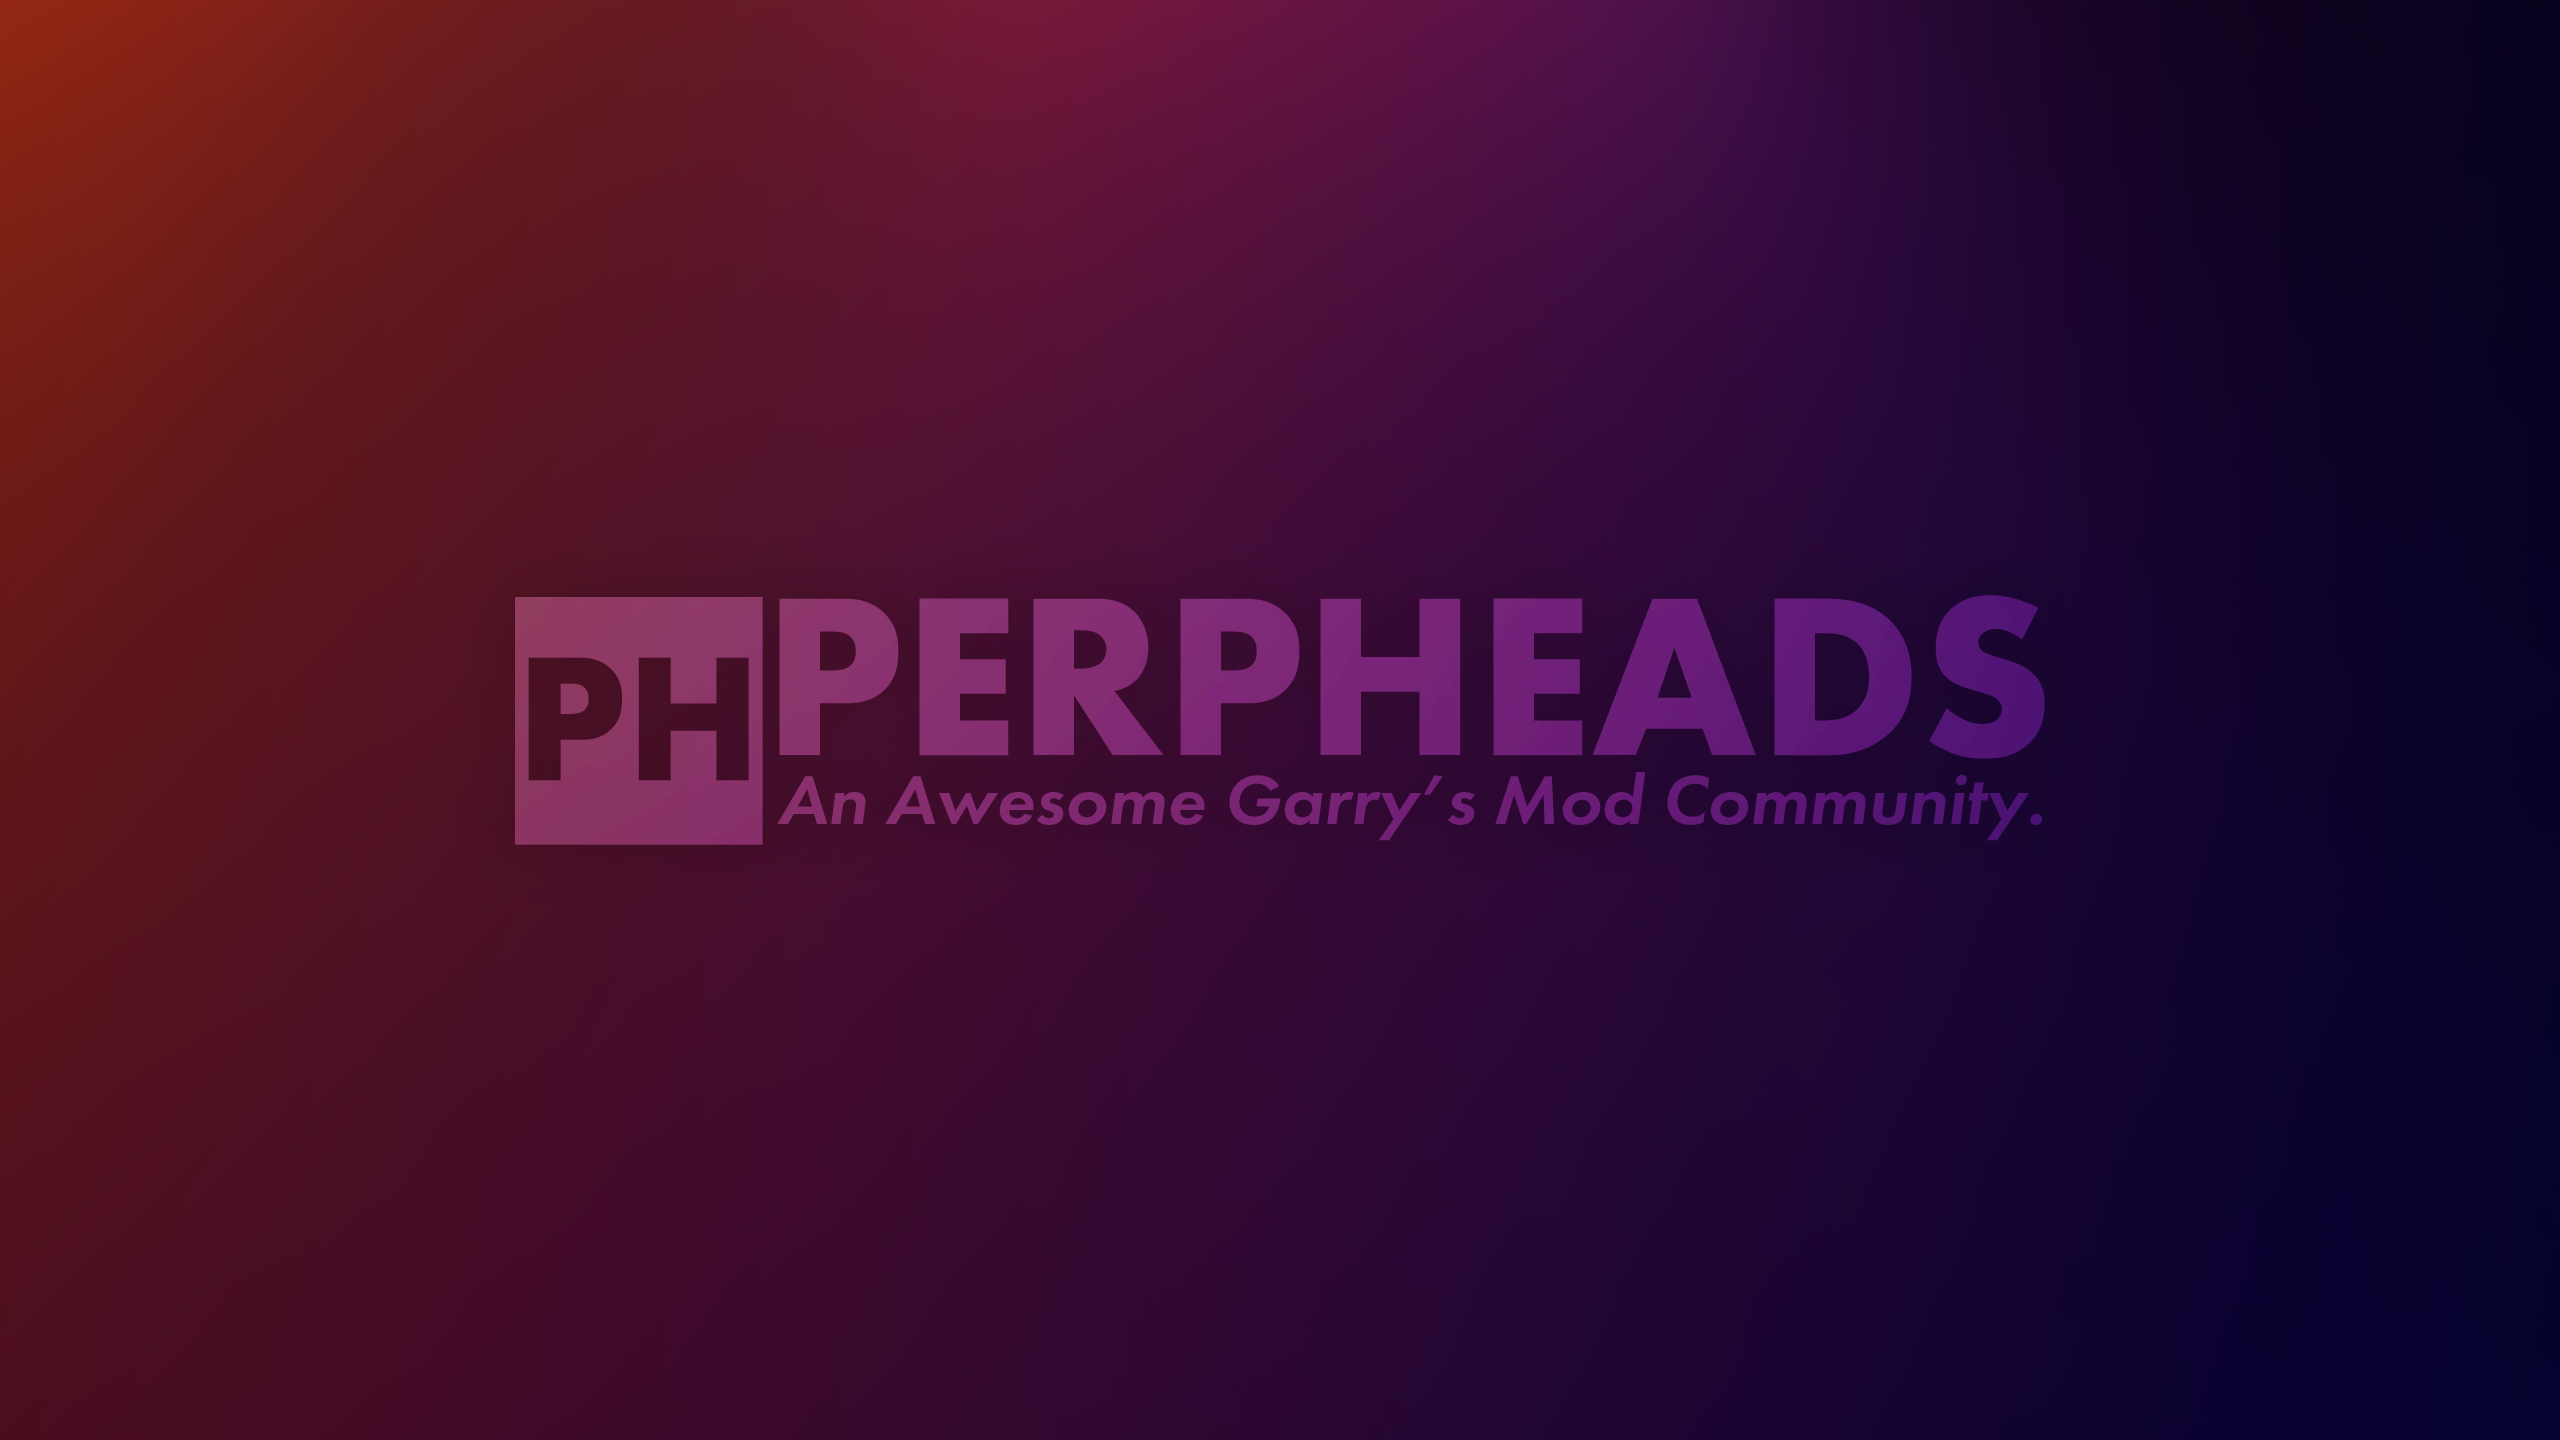
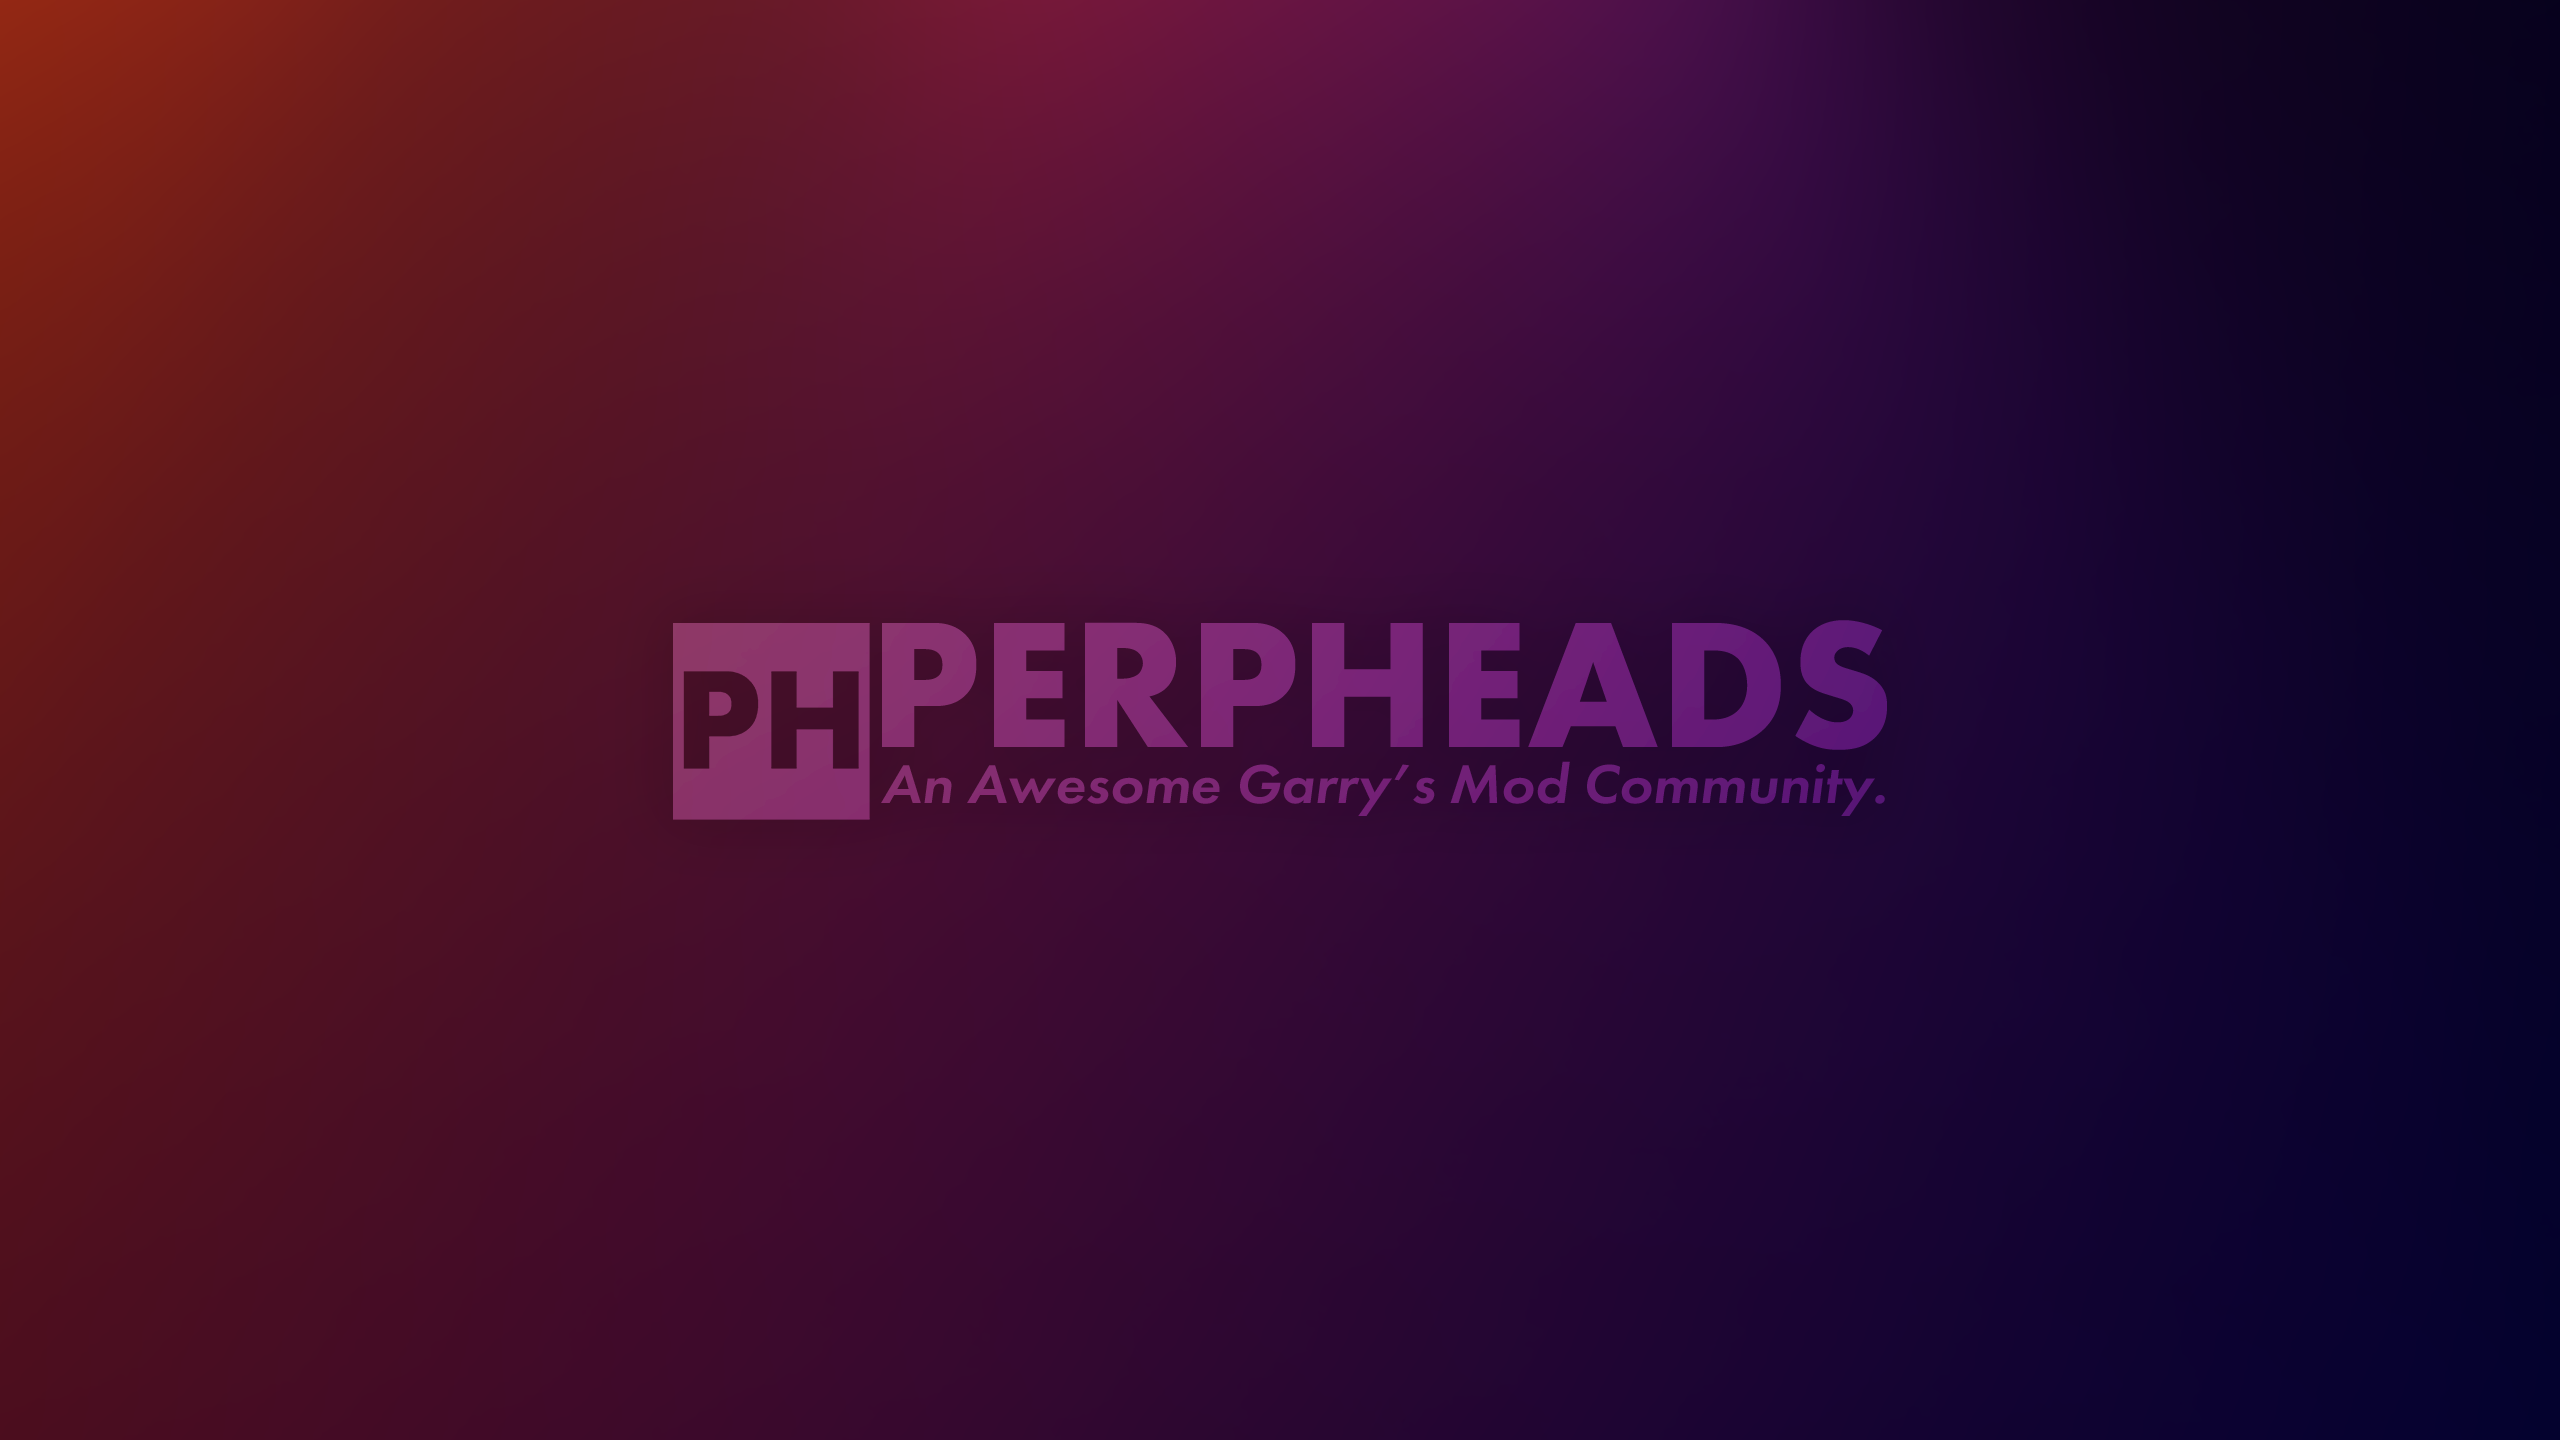
Revert to simple loading screen

Changed region(s): [[0.1875, 0.4062, 0.8125, 0.5938]]

diff --git a/loading.html b/loading.html
@@ -13,7 +13,7 @@
       overflow: hidden;
       font-family: 'Jost', sans-serif;
       font-weight: bold 700;
-      background: black;
+      background: rgb(42, 42, 42);
     }
 
     .background-wrapper {
@@ -58,60 +58,24 @@
     }
 
     .hue-animation {
-      animation: hueRotate 60s linear infinite;
+      animation: hueRotate 30s linear infinite;
     }
-
-    .namebox {
-    opacity: 0.64;
-    position: fixed;
-    bottom: 0px;
-    left: 30px;
-    width: 324px;
-    height: 160px;
-    background: url('images_excluded/loading/namebox.png') no-repeat center center;
-    background-size: contain;
-    display: flex;
-    align-items: flex-end;
-    justify-content: flex-start;
-    padding: 20px 30px;
-    pointer-events: none;
-    z-index: 1;
-  }
-
-  .namebox #welcomeMessage {
-    color: white;
-    font-size: 34px;
-    font-family: 'Jost', sans-serif;
-    position: relative;
-    left: -10px;
-    top: -45px;
-    opacity: 1;
-  }
-
-
-
-
   </style>
 </head>
+
 <body>
   <div class="background-wrapper hue-animation">
     <div class="background visible" id="bg1"></div>
     <div class="background" id="bg2"></div>
   </div>  
 
-  <div class="namebox">
-    <span id="welcomeMessage">Hello Player</span>
-  </div>
-  
-
   <script>
-    //image stuff
     window.addEventListener('DOMContentLoaded', () => {
       const images = [
-      { src: 'images_excluded/loading/devserver_loading_blank.png', duration: 2000 },
         { src: 'images_excluded/loading/devserver_loading01.png', duration: 10000 },
         { src: 'images_excluded/loading/devserver_loading_blank.png', duration: 2000 },
-        { src: 'images_excluded/loading/evserver_loading02.png', duration: 20000 }
+        { src: 'images_excluded/loading/devserver_loading02.png', duration: 20000 },
+        { src: 'images_excluded/loading/devserver_loading_blank.png', duration: 2000 }
       ];
 
       const bg1 = document.getElementById('bg1');
@@ -146,17 +110,6 @@
       }
 
       setTimeout(showNextImage, images[0].duration);
-
-      //player name
-      const params = new URLSearchParams(window.location.search);
-      let playerName = params.get('playername') || 'Player';
-      playerName = decodeURIComponent(playerName);
-
-      if (playerName.length > 9) {
-        playerName = playerName.substring(0, 9);
-      }
-
-      document.getElementById('welcomeMessage').textContent = `Hello ${playerName}`;
     });
   </script>
 </body>
